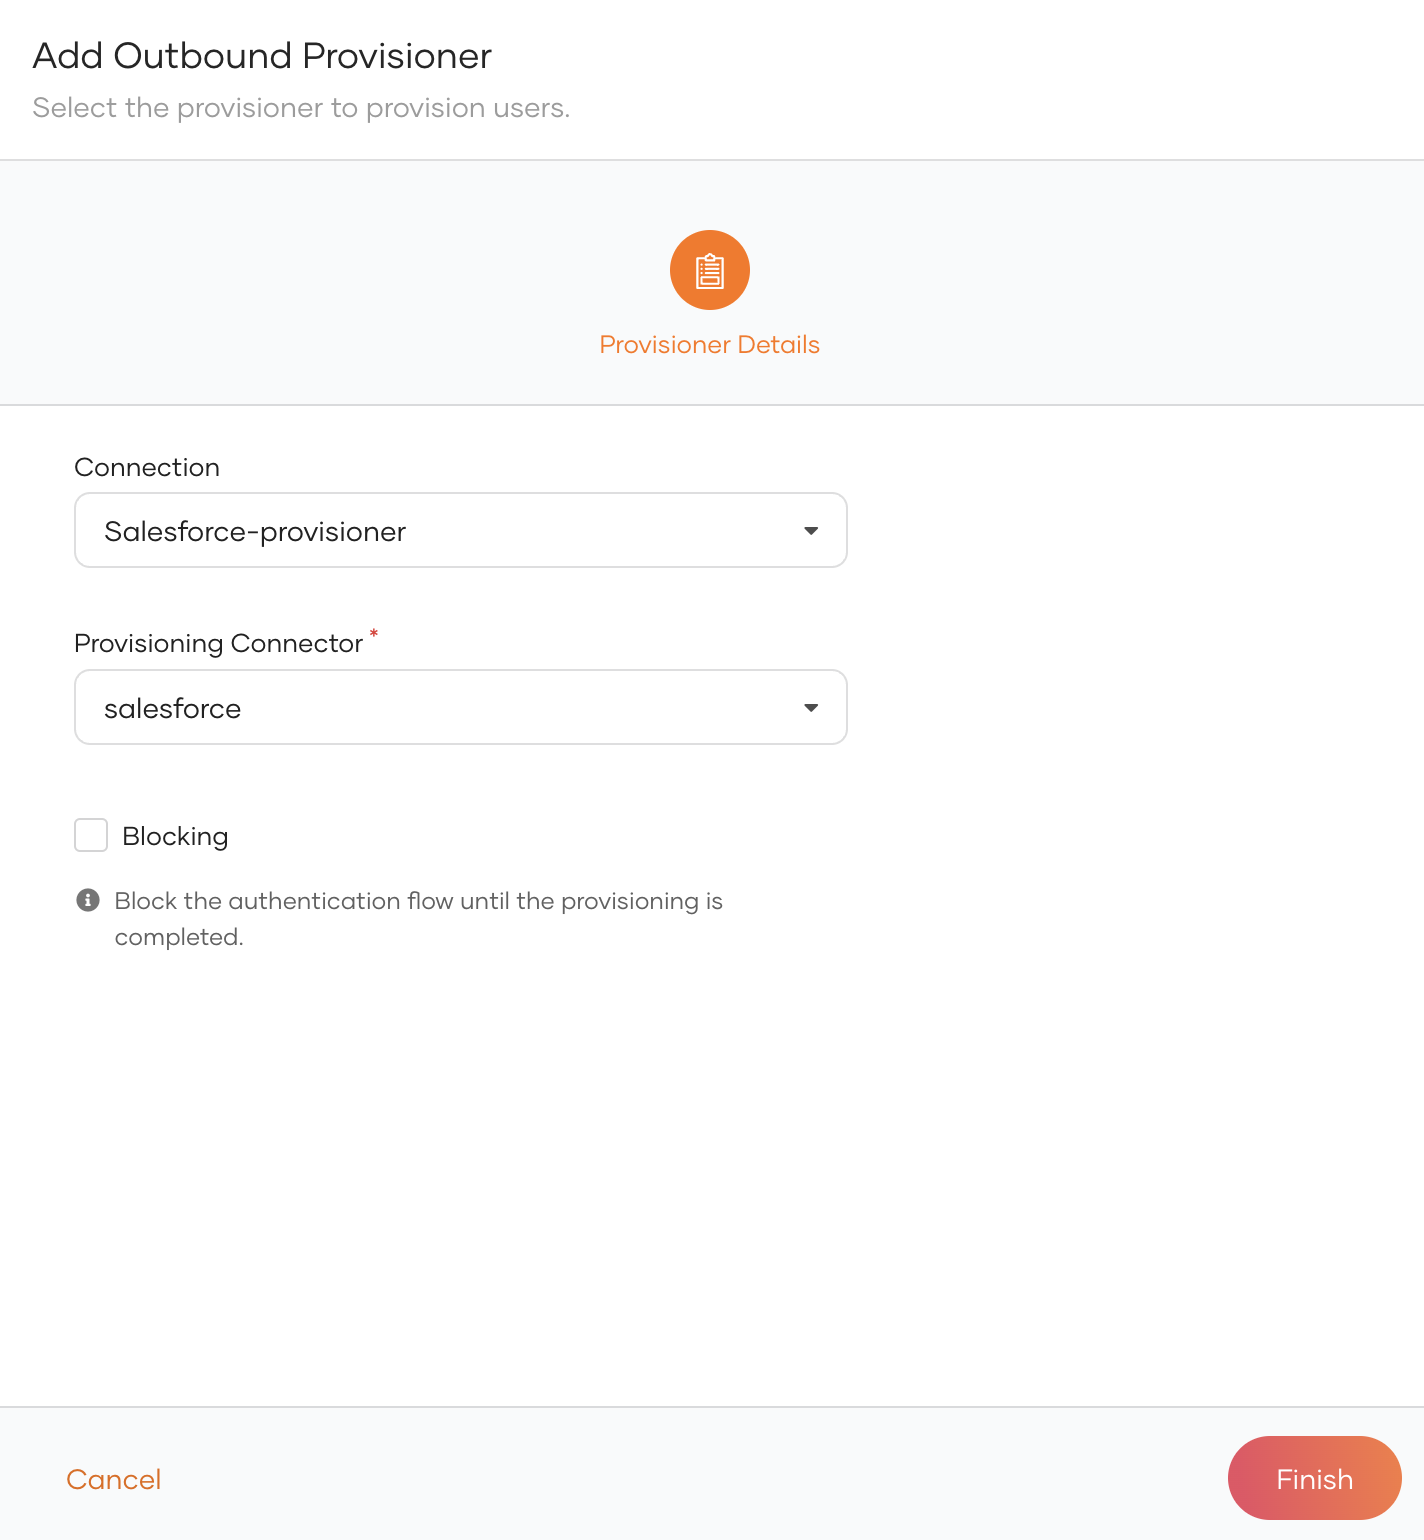
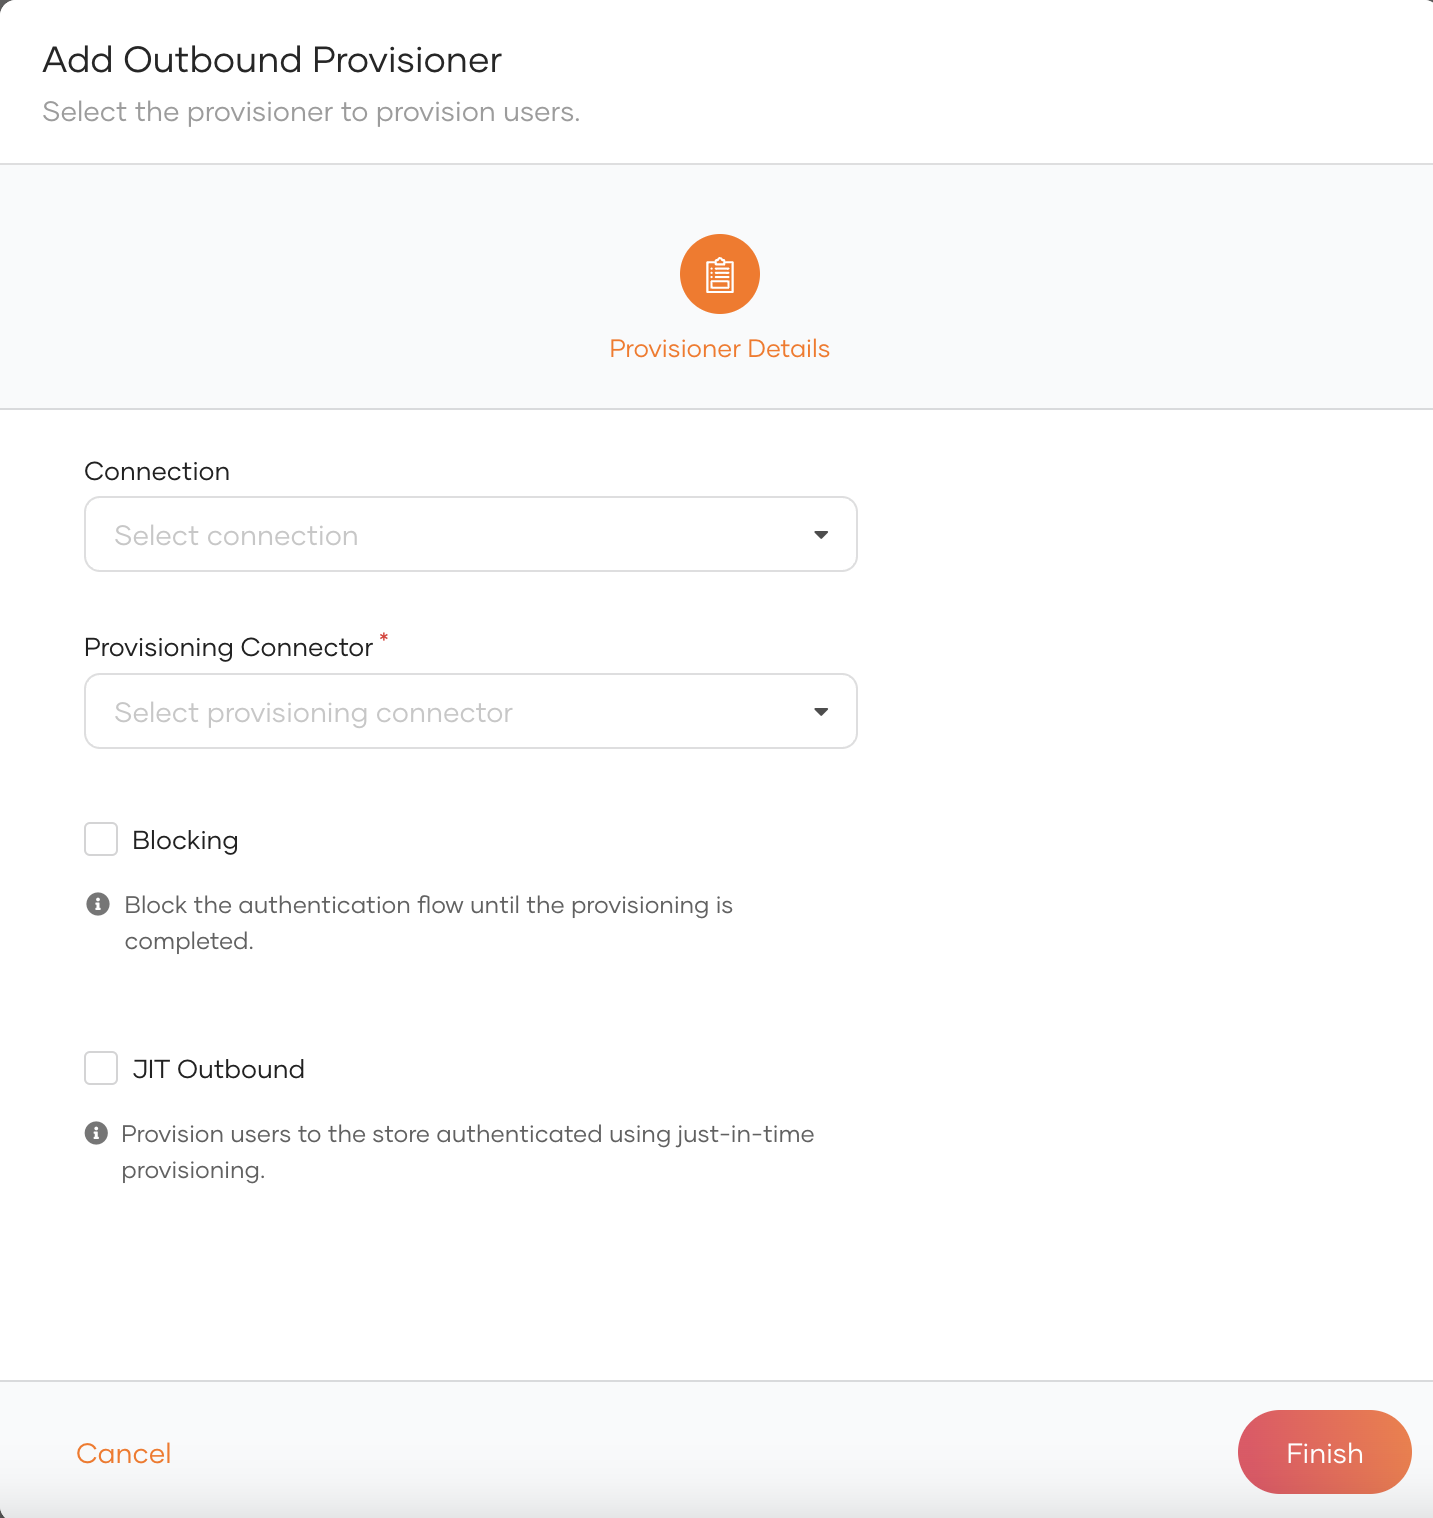
Add docs for jit outbound.

diff --git a/en/includes/guides/users/outbound-provisioning/provisioning-levels/org-level.md b/en/includes/guides/users/outbound-provisioning/provisioning-levels/org-level.md
@@ -52,6 +52,12 @@ Follow the steps below to configure the resident application in {{product_name}}
     !!! note
         You can select **Blocking** to make the user onboarding process synchronous with the outbound provisioning process. If selected, {{product_name}} waits for the response from the outbound connector before proceeding with the user creation.
 
+        {% if product_name == "WSO2 Identity Server" and is_version != "7.0.0" %}
+        You can select **JIT Outbound** to enable outbound provisioning for JIT provisioned users during authentication.
+        {% else %}
+        If you are on an update level that is greater than or equal to 7.0.0.73, you can select **JIT Outbound** to enable outbound provisioning for JIT provisioned users during authentication.
+        {% endif %}
+
     ![Configure the resident identity outbound provisioner]({{base_path}}/assets/img/guides/outbound-provisioning/configure-resident-idp.png){: width="700" style="border: 0.3px solid lightgrey;"}
 
 5. Click **Finish**.
